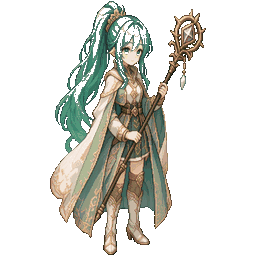
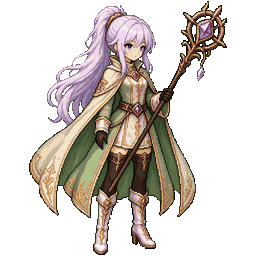
fix(battle): v4g2 silver Verda, craft cardback, light HUD
Restore lavender/silver Verda; ornate pastel card backs; reveal more
table rim; light topbar in battle; hide combo at x0; SW MEMORY_RPG_v4g2.

diff --git a/css/battle-bright.css b/css/battle-bright.css
@@ -15,7 +15,7 @@
   --bb-crimson:#d0465f;
   --bb-mint:#8fcfbf;
   --bb-shadow:0 1px 3px rgba(60,40,50,.18);
-  --bb-board-top:max(46%,200px);
+  --bb-board-top:max(50%,220px);
   --bb-foot-h:92px;
 }
 /* 場景已鋪滿；確保 ui-v4 的「舞台全隱藏」不生效 */
@@ -23,10 +23,23 @@
 #scr-battle.screen.active{position:relative;overflow:hidden;background:#dfe9e4;perspective:1100px;perspective-origin:50% 64%}
 
 /* 戰鬥時頂列改柔光玻璃（不搶場景） */
-body.no-nav:has(#scr-battle.active) #topbar{
-  background:linear-gradient(180deg,rgba(52,38,62,.62),rgba(52,38,62,.28));
-  border-bottom-color:rgba(255,255,255,.18);
+body.no-nav:has(#scr-battle.active) #topbar,
+#scr-battle.screen.active ~ #topbar,
+body:has(#scr-battle.screen.active) #topbar{
+  background:linear-gradient(180deg,rgba(255,252,244,.88),rgba(255,252,244,.55));
+  border-bottom:1px solid rgba(120,96,140,.22);
+  color:#4a3550;
+  box-shadow:0 1px 0 rgba(255,255,255,.7);
 }
+body:has(#scr-battle.screen.active) #topbar .res,
+body:has(#scr-battle.screen.active) #topbar b,
+body:has(#scr-battle.screen.active) #topbar .sep,
+body:has(#scr-battle.screen.active) #topbar small,
+body:has(#scr-battle.screen.active) #topbar .lv{
+  color:#4a3550!important;text-shadow:none;
+}
+body:has(#scr-battle.screen.active) #topbar svg.ico{color:#6a5578;fill:#6a5578;opacity:.9}
+
 
 /* ═════════ HUD：細亮片 ═════════ */
 #scr-battle .battle-head,
@@ -105,17 +118,25 @@ body.no-nav:has(#scr-battle.active) #topbar{
 #scr-battle .battle-sub .stat > span{color:var(--bb-ink-2)}
 #scr-battle .battle-sub .stat:first-child small::before{content:"\25C7";margin-right:2px;font-size:9px;color:var(--bb-accent)}
 #scr-battle .battle-sub .stat:last-child small::before{content:"\25C6";margin-right:2px;font-size:9px;color:var(--bb-crimson)}
+#scr-battle .battle-sub .combo.is-zero{display:none!important;visibility:hidden}
 #scr-battle .battle-sub .combo{
   min-width:64px;text-align:center;font-family:var(--ff-display,inherit);font-size:15px;
   color:#7a4a96;text-shadow:0 0 4px #fff,0 0 2px #fff,0 1px 0 rgba(255,255,255,.9);
 }
 
 /* ═════════ 牌盤：放在桌面上（輕透視，無面板） ═════════ */
+#scr-battle #board.board::before{
+  content:"";position:absolute;z-index:-1;left:-10%;right:-10%;top:-8%;bottom:-14%;
+  border-radius:4px 4px 10px 10px;
+  background:linear-gradient(180deg,rgba(255,250,240,.15),rgba(180,150,120,.18) 40%,rgba(120,90,70,.28));
+  box-shadow:inset 0 0 0 1px rgba(255,255,255,.35),0 8px 16px rgba(60,40,30,.2);
+  transform:perspective(600px) rotateX(14deg);transform-origin:50% 0;pointer-events:none;
+}
 #scr-battle #board.board{
   position:absolute;z-index:2;
   top:var(--bb-board-top);
-  bottom:calc(var(--bb-foot-h) + 10px);
-  left:calc(var(--sal,0px) + 28px);right:calc(var(--sar,0px) + 28px);
+  bottom:calc(var(--bb-foot-h) + 28px);
+  left:calc(var(--sal,0px) + 42px);right:calc(var(--sar,0px) + 42px);
   width:auto!important;            /* 蓋掉 inline width:100%，改由 left/right＋max-width 置中 */
   margin:0 auto!important;
   flex:none;padding:4px 2px 2px;
@@ -248,7 +269,14 @@ body.no-nav:has(#scr-battle.active) #topbar{
 }
 @media (orientation:landscape) and (max-height:430px){
   #scr-battle{--bb-foot-h:56px;--bb-board-top:76px}
-  #scr-battle #board.board{bottom:6px;right:calc(var(--sar,0px) + 78px);left:calc(var(--sal,0px) + 14px);rotate:none}
+  #scr-battle #board.board::before{
+  content:"";position:absolute;z-index:-1;left:-10%;right:-10%;top:-8%;bottom:-14%;
+  border-radius:4px 4px 10px 10px;
+  background:linear-gradient(180deg,rgba(255,250,240,.15),rgba(180,150,120,.18) 40%,rgba(120,90,70,.28));
+  box-shadow:inset 0 0 0 1px rgba(255,255,255,.35),0 8px 16px rgba(60,40,30,.2);
+  transform:perspective(600px) rotateX(14deg);transform-origin:50% 0;pointer-events:none;
+}
+#scr-battle #board.board{bottom:6px;right:calc(var(--sar,0px) + 78px);left:calc(var(--sal,0px) + 14px);rotate:none}
   #scr-battle .b-portrait{display:none}
   #app #scr-battle #b-cheer.b-cheer{display:none}
   #scr-battle .battle-foot{left:auto;width:72px}

diff --git a/index.html b/index.html
@@ -233,7 +233,7 @@ img.outfit-yukata{filter:saturate(1.1) sepia(.12)}
       <div class="timebar"><div id="b-timefill" class="timefill"></div><i class="ticks" aria-hidden="true"></i><span id="b-time">0</span></div>
       <div class="battle-sub hud-stats">
         <span class="stat"><small>配對</small><b id="b-pairs">0/0</b></span>
-        <span id="b-combo" class="combo">連擊 x0</span>
+        <span id="b-combo" class="combo is-zero">連擊 x0</span>
         <span class="stat"><small>失誤</small><span><b id="b-miss">0</b>/<b id="b-misslimit">0</b></span></span>
       </div>
       <div id="board" class="board"></div>

diff --git a/js/game.js b/js/game.js
@@ -955,6 +955,7 @@
     setText('b-miss', b.miss);
     setText('b-misslimit', b.missLimit);
     setText('b-combo', '連擊 x' + b.combo);
+    var ce0 = $('b-combo'); if (ce0) { if (b.combo > 0) ce0.classList.remove('is-zero'); else ce0.classList.add('is-zero'); }
   }
   function updateSkillBtn() {
     var b = battle, btn = $('btn-skill'); if (!b || !btn) return;

diff --git a/js/sw.js b/js/sw.js
@@ -1,5 +1,5 @@
-/* 記憶帝國：女傑翻牌 — Service Worker v4f2（stage clip+swap） */
-const CACHE = 'MEMORY_RPG_v4g1';
+/* 記憶帝國：女傑翻牌 — Service Worker v4g2 bright fix */
+const CACHE = 'MEMORY_RPG_v4g2';
 // 核心殼層：缺一即安裝失敗
 const CORE = [
   './',

diff --git a/sw.js b/sw.js
@@ -1,5 +1,5 @@
-/* 記憶帝國：女傑翻牌 — Service Worker v4f2（stage clip+swap） */
-const CACHE = 'MEMORY_RPG_v4g1';
+/* 記憶帝國：女傑翻牌 — Service Worker v4g2 bright fix */
+const CACHE = 'MEMORY_RPG_v4g2';
 // 核心殼層：缺一即安裝失敗
 const CORE = [
   './',
